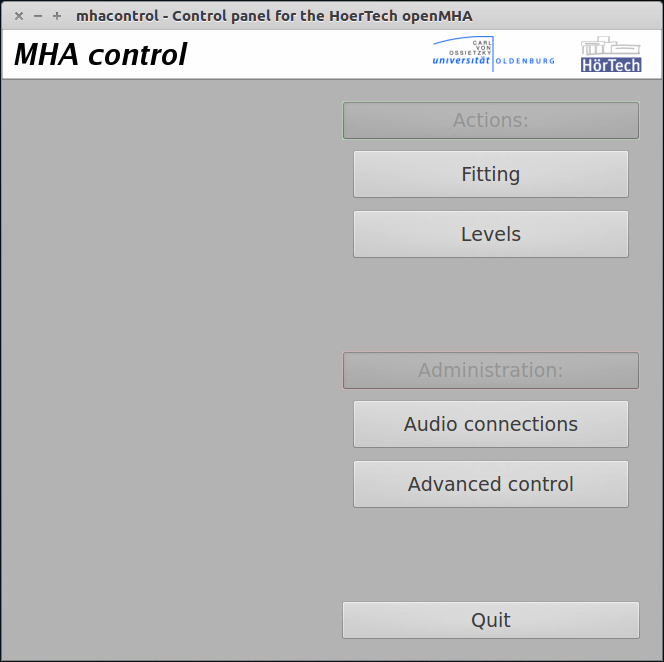
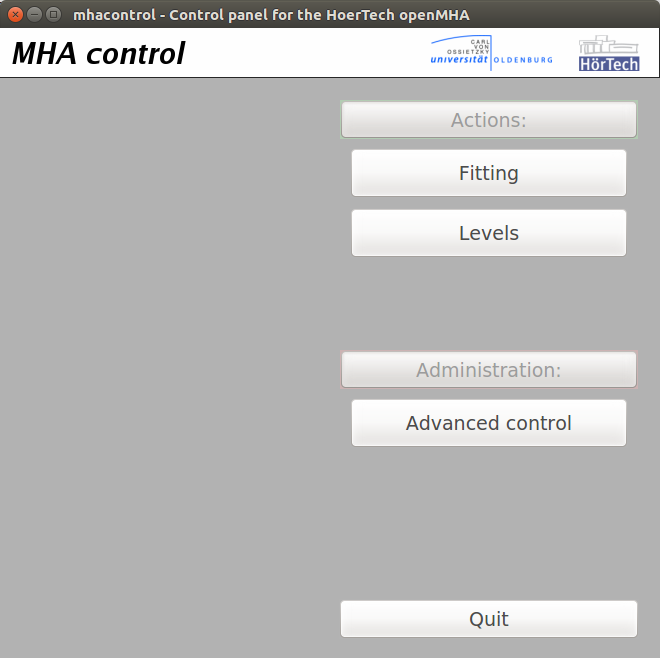
Removed Audio connection manager from GUI manual

diff --git a/mha/doc/user_manual/openMHA_gui_manual.tex b/mha/doc/user_manual/openMHA_gui_manual.tex
@@ -303,29 +303,29 @@ Below that panel, the time constant for RMS level averaging can be
 adjusted (broad band level meter only).
 
 \MHAfigure{Level and gain meter.}{mhacontrol_levels.png}
-
-\subsection{Audio connections}\label{sec:audioconnections}\index{connections}\index{JACK}\index{audio backend}
-
-The 'mhacontrol' application can provide a dialog for connecting input
-and output channels to specific hardware audio channels, see
-\figref{mhacontrol_audio_connections.png} for a screenshot (this
-requires the JACK audio backend).
 %
-Each \mha{} input channel can be connected to a hardware input, and
-each output channel can be connected to a hardware output.
+%\subsection{Audio connections}\label{sec:audioconnections}\index{connections}\index{JACK}\index{audio backend}
 %
-Connections can be saved in presets that are listed in the left panel of the connection dialog.
+%The 'mhacontrol' application can provide a dialog for connecting input
+%and output channels to specific hardware audio channels, see
+%\figref{mhacontrol_audio_connections.png} for a screenshot (this
+%requires the JACK audio backend).
 %
-A preset can be selected by clicking on its entry in the list.
+%Each \mha{} input channel can be connected to a hardware input, and
+%each output channel can be connected to a hardware output.
 %
-Please note that in the connection dialog only connections to hardware
-ports are supported.
+%Connections can be saved in presets that are listed in the left panel of the connection dialog.
 %
-If you need connections to software ports, please use JACK connection
-tools on the \mha{} computer.
+%A preset can be selected by clicking on its entry in the list.
 %
-
-\MHAfigure[][0.8\linewidth]{Audio connection manager.}{mhacontrol_audio_connections.png}
+%Please note that in the connection dialog only connections to hardware
+%ports are supported.
+%
+%If you need connections to software ports, please use JACK connection
+%tools on the \mha{} computer.
+%
+%
+%\MHAfigure[][0.8\linewidth]{Audio connection manager.}{mhacontrol_audio_connections.png}
 
 \subsection{Advanced control}\label{sec:advanced}\index{advanced control}\index{mhagui\_generic}
 
